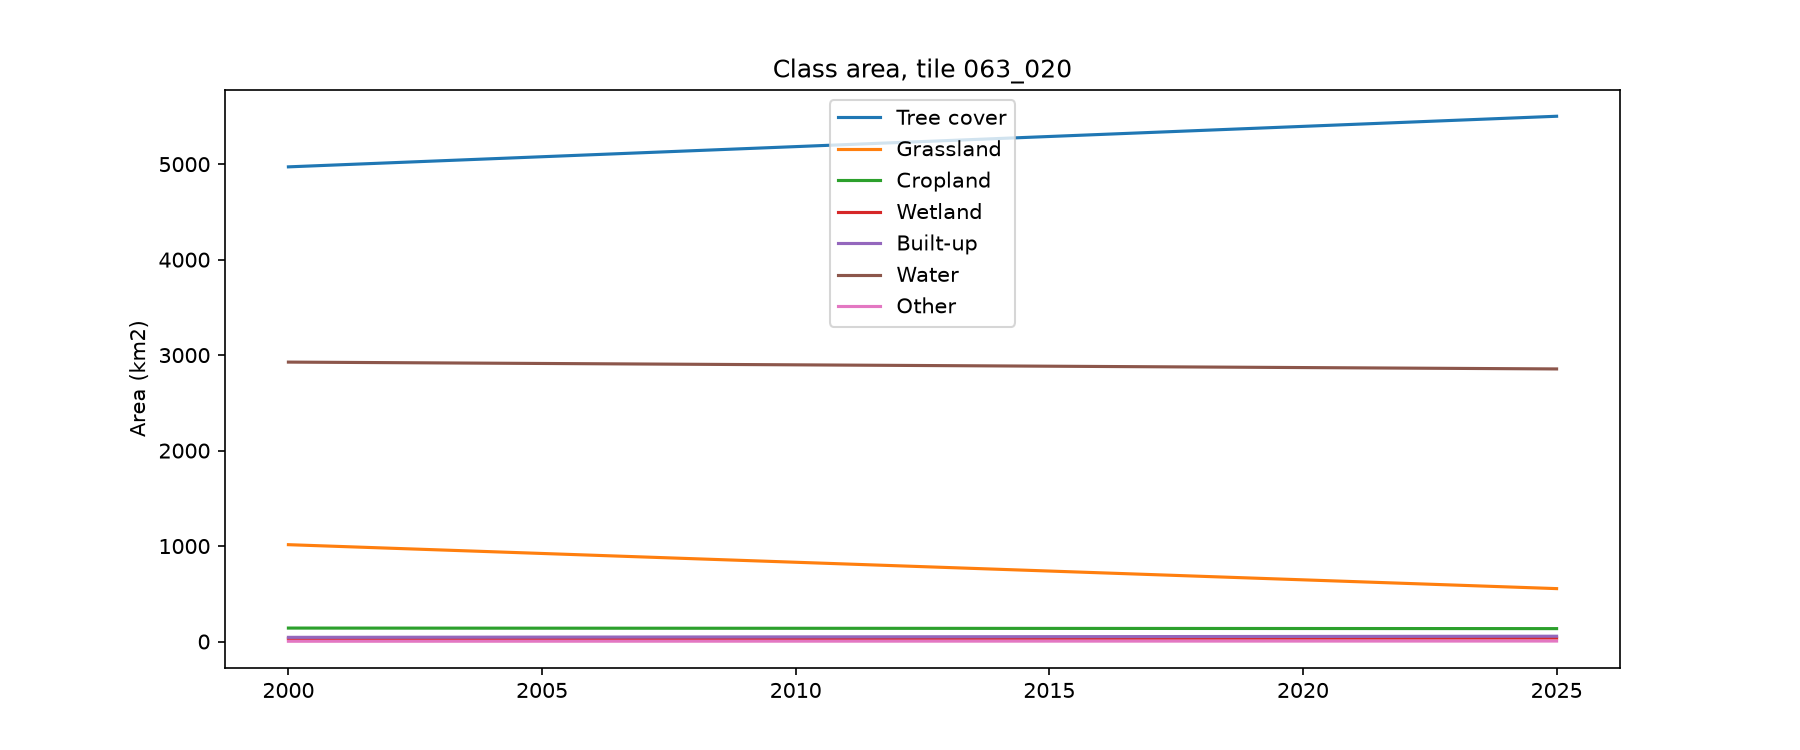
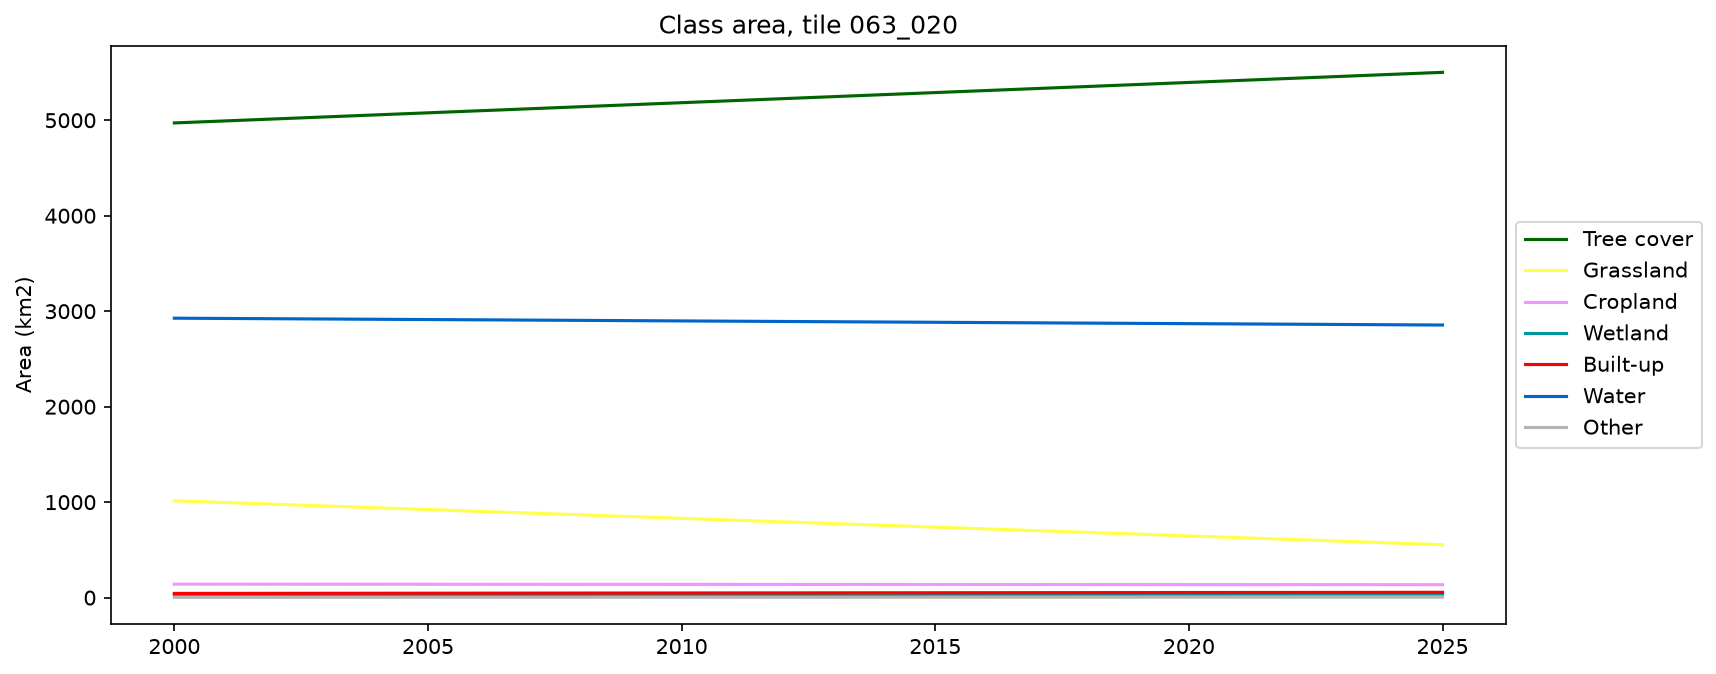
Show counts and % in map classes. Add flicker and implausible maps.

diff --git a/notebooks/LULC_Testing/reports_temporal/0-0-9/temporal_stability.md b/notebooks/LULC_Testing/reports_temporal/0-0-9/temporal_stability.md
@@ -39,7 +39,17 @@ A pixel can fail several tests, so the test columns do not sum to `any`. `valid`
 
 ## Unstable pixel map
 
-![Unstable pixels](unstable_pixels.png)
+![Unstable pixels 063_020](unstable_pixels_063_020.png)
+
+## Flicker classes
+
+Each A -> B -> A event is found at the first year the pixel returns to A.
+
+![Flicker classes 063_020](flicker_classes_063_020.png)
+
+## Implausible transitions
+
+![Implausible transitions 063_020](implausible_transitions_063_020.png)
 
 ## Class area time series
 
